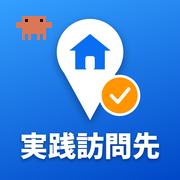
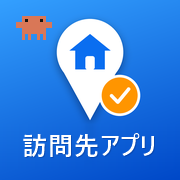
アプリの名前を「実践訪問先」から「訪問先アプリ」に変える。表紙（訪問先／アプリの2行）・上のタイトル・タブ・ホーム画面の名前・一覧表の見出し・アイコンの文字・自己紹介・使い方の最初の字幕と声（まお・速さ0.9・音量そろえ）を直した

Changed region(s): [[0.1111, 0.7222, 0.8889, 0.9167]]

diff --git a/index.html b/index.html
@@ -24,13 +24,13 @@
 </script>
 <meta charset="UTF-8">
 <meta name="viewport" content="width=device-width, initial-scale=1.0, maximum-scale=1.0, user-scalable=no, viewport-fit=cover">
-<title>実践訪問先</title>
+<title>訪問先アプリ</title>
 <!-- ── ホーム画面アイコン ── -->
-<link rel="apple-touch-icon" href="icon.png?v=3">
-<link rel="icon" type="image/png" href="icon.png?v=3">
+<link rel="apple-touch-icon" href="icon.png?v=4">
+<link rel="icon" type="image/png" href="icon.png?v=4">
 <meta name="apple-mobile-web-app-capable" content="yes">
 <meta name="mobile-web-app-capable" content="yes">
-<meta name="apple-mobile-web-app-title" content="訪問先">
+<meta name="apple-mobile-web-app-title" content="訪問先アプリ">
 <meta name="apple-mobile-web-app-status-bar-style" content="default">
 <meta name="theme-color" content="#f2f2f7">
 <script src="https://cdnjs.cloudflare.com/ajax/libs/html2canvas/1.4.1/html2canvas.min.js"></script>
@@ -110,7 +110,7 @@ body {
 .topbar-title { font-size: 18px; font-weight: 700; white-space: nowrap; line-height: 1.1; margin-left: 24px; }
 .topbar-left { flex: 1; }
 .topbar-left { display: flex; align-items: center; min-width: 0; }
-/* 画像保存・データ保存・復元は、タイトル「実践訪問先」のすぐ右に並べる */
+/* 画像保存・データ保存・復元は、タイトル「訪問先アプリ」のすぐ右に並べる */
 .topbar-actions { margin-left: auto; flex-shrink: 0; }
 
 /* === Claude Code のキャラクター（ヘッダー左上） === */
@@ -551,7 +551,7 @@ body.tut-up #tut { bottom: calc(80px + env(safe-area-inset-bottom, 0px)); }   /*
 <div class="op" id="op" role="dialog" aria-label="オープニング">
   <div class="op-in">
     <p class="op-sub">訪問の記録を ひとまとめに</p>
-    <h2 class="op-t"><span>実践</span><b>訪問先</b></h2>
+    <h2 class="op-t"><b>訪問先</b><span>アプリ</span></h2>
     <div class="op-chars">
       <div class="op-c cc"><svg class="op-anim op-cc" viewBox="0 -7 34 23" data-skip="60" aria-hidden="true"></svg><span>Claude Code</span></div>
       <div class="op-c op-gh">
@@ -624,7 +624,7 @@ body.tut-up #tut { bottom: calc(80px + env(safe-area-inset-bottom, 0px)); }   /*
         <span class="gh-label">GitHub</span>
       </a>
     </div>
-    <div class="topbar-title">実践訪問先</div>
+    <div class="topbar-title">訪問先アプリ</div>
   </div>
   <div class="topbar-actions">
     <button class="icon-btn" id="tutBtn" type="button">
@@ -1600,7 +1600,7 @@ function buildPrintHTML(records) {
 
   return `<div id="printRoot" style="background:#e8e8ed;padding:10px;display:inline-block;font-family:'Noto Sans JP',sans-serif;">
     <div style="margin-bottom:8px;display:flex;justify-content:space-between;align-items:center;gap:16px;min-width:100%;">
-      <span style="font-size:13px;font-weight:bold;color:#1c1c1e;">実践訪問先　記録一覧</span>
+      <span style="font-size:13px;font-weight:bold;color:#1c1c1e;">訪問先アプリ　記録一覧</span>
       <span style="font-size:10px;color:#666;">${today}　全${records.length}件</span>
     </div>
     <table style="border-collapse:collapse;table-layout:fixed;">
@@ -1678,7 +1678,7 @@ document.querySelectorAll('.modal-overlay').forEach(ov => {
   });
 })();
 
-// タイトル「実践訪問先」を、右のボタンの手前までぎりぎり大きくする（画面の幅が変わったら合わせ直す）
+// タイトル「訪問先アプリ」を、右のボタンの手前までぎりぎり大きくする（画面の幅が変わったら合わせ直す）
 function fitTitle() {
   const t = document.querySelector('.topbar-title');
   if (!t) return;
@@ -3048,7 +3048,7 @@ window.CC_EXTRA = [...BLOCKS, ...MOBS, ...MC2, ...MC3, ...MC4, ...MC5];
 //   公式ページは自己紹介の画面の「公式ページを見る」から開く
 // =============================================================
 (function ccIntro() {
-  const APP = '実践訪問先';
+  const APP = '訪問先アプリ';
   const INTRO = {
     cc: {
       name: 'Claude Code（クロード・コード）',
@@ -3234,9 +3234,9 @@ var o=document.querySelector('#opening,#openingScreen,#startBox');if(o)o.appendC
   // [字幕, 光らせる所（関数）, その場面でする操作]。i 番目は SPK[i % SPK.length] が読む（7人で順番に）
   // 声は koe-tut/番号.mp3（AivisSpeech で作ったもの）。読めなかったときは 端末の声で読む
   //   字幕を変えたら声も作り直すこと（KOE_V を1つ上げる）
-  const KOE_V = 3;
+  const KOE_V = 4;
   const STEPS = [
-    ['こんにちは。実践訪問先アプリの使い方を説明します。', null, () => switchTab('list')],
+    ['こんにちは。訪問先アプリの使い方を説明します。', null, () => switchTab('list')],
     ['訪問先を書きこむときは、上の「＋ 登録」を押します。', q('.tab[data-tab="form"]'), () => switchTab('form')],
     ['訪問先の名前を入れます。名前と住所は、かならず入れてください。', () => $('name').closest('.field'), () => typeIn('name', '山田 太郎')],
     ['郵便番号を7けた入れると、住所が自動で出ます。続けて番地を入れてください。', () => $('zip').closest('.field'), () => { typeIn('zip', '612-8000'); setTimeout(() => tutOn && typeIn('address', '京都市伏見区〇〇町1-2'), 1400); }],
